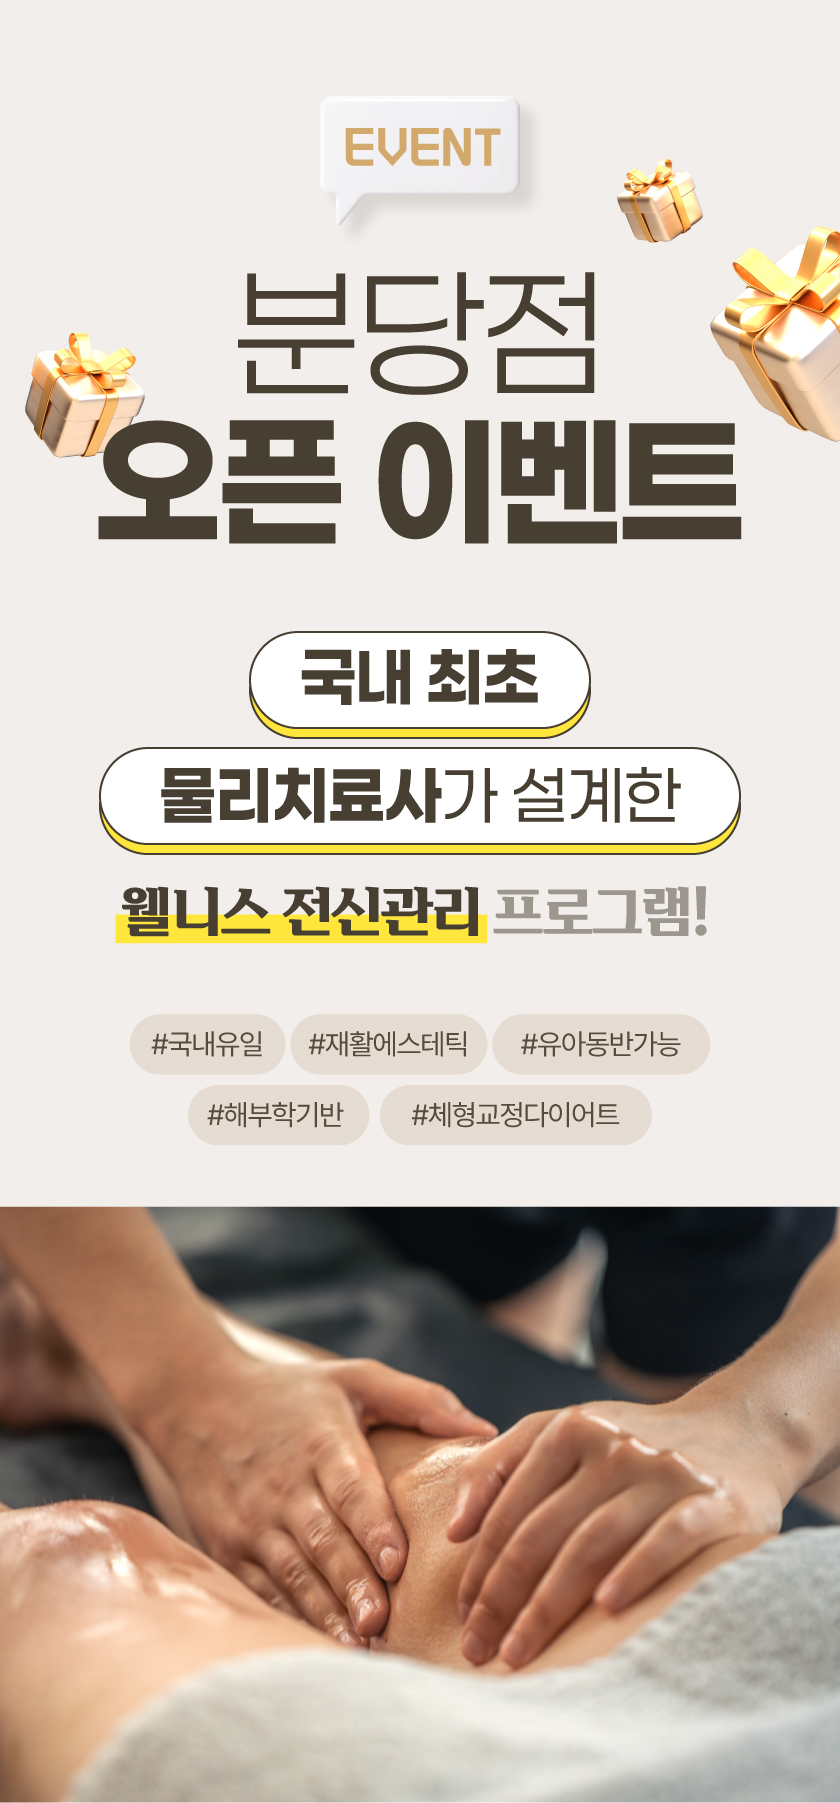
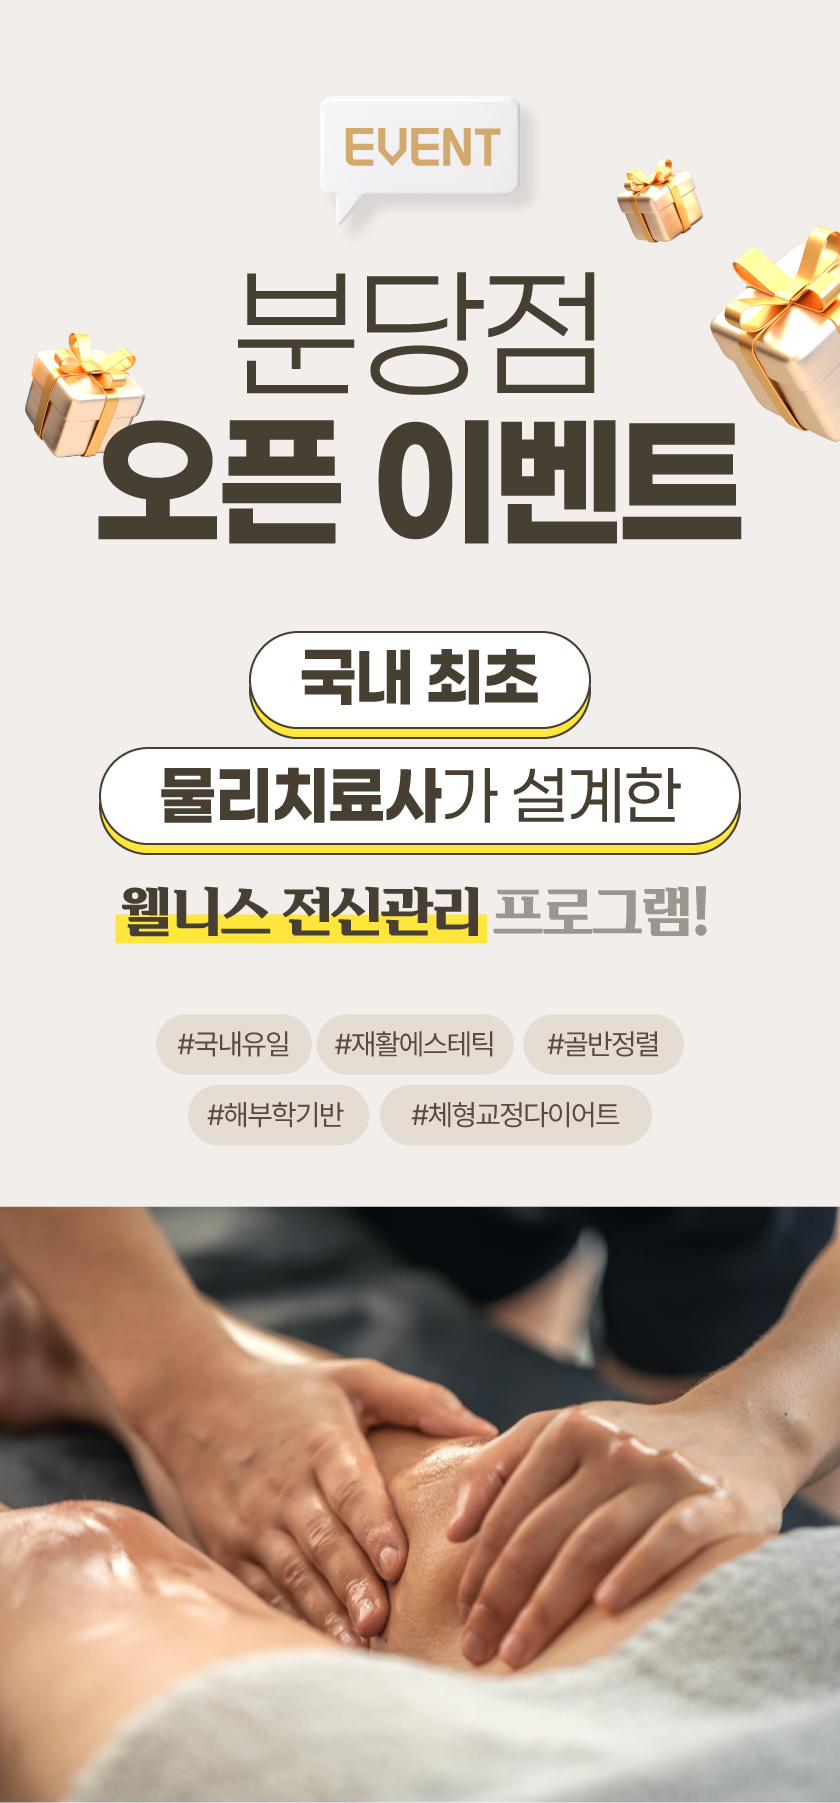
.

Changed region(s): [[0.1548, 0.5591, 0.5881, 0.5901], [0.619, 0.5591, 0.8357, 0.5901]]

diff --git a/template/genobody/2026/geno_분당 오픈.html b/template/genobody/2026/geno_분당 오픈.html
@@ -63,7 +63,7 @@
                                 <img class="com_img sa sa-up" src="https://winawork.github.io/images/geno/2026/bundang/bd_open_01.jpg">
                                 <!-- <img class="com_img sa sa-up" src="https://winawork.github.io/images/geno/2512/geno_1222_01.jpg">  -->
                                 <img class="com_img sa sa-up" src="https://winawork.github.io/images/geno/2026/geno_260511_06.jpg"> 
-                                <img class="com_img sa sa-up" src="https://winawork.github.io/images/geno/2026/geno_260511_01.jpg"> 
+
                                 
                                 <!-- 비포에프터 -->
                                  <img class="com_img sa sa-up" src="https://winawork.github.io/images/geno/2026/mom/mom_new_11.gif"> 
